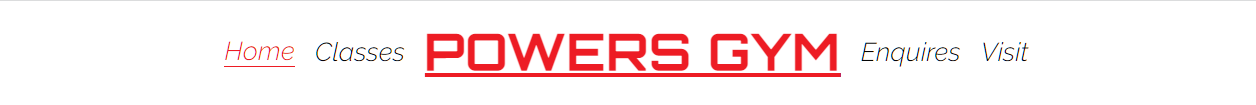
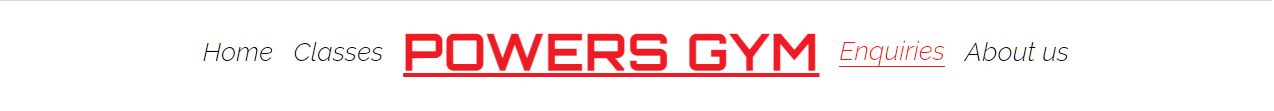
Notice spelling mistake in Enquiries fixed

Changed region(s): [[0.1553, 0.2857, 0.8384, 0.7429], [0.1863, 0.6286, 0.2484, 0.6571]]

diff --git a/enquiries.html b/enquiries.html
@@ -19,7 +19,7 @@
             <div>
                 <a href="index.html"><h1 id="logo">Powers Gym</h1></a>
             </div>
-            <a href="enquires.html" class="active menu-select enquires-menu">Enquires</a>
+            <a href="enquiries.html" class="active menu-select enquiries-menu">Enquiries</a>
             <a href="index.html#about-us" class="menu-select visit-menu">About us</a>
         </nav>
     </header>

diff --git a/index.html b/index.html
@@ -19,7 +19,7 @@
             <div>
                 <a href="index.html"><h1 id="logo">Powers Gym</h1></a>
             </div>
-            <a href="enquires.html" class="menu-select enquires-menu">Enquires</a>
+            <a href="enquiries.html" class="menu-select enquiries-menu">Enquiries</a>
             <a href="#about-us" class="menu-select visit-menu">About us</a>
         </nav>
     </header>
